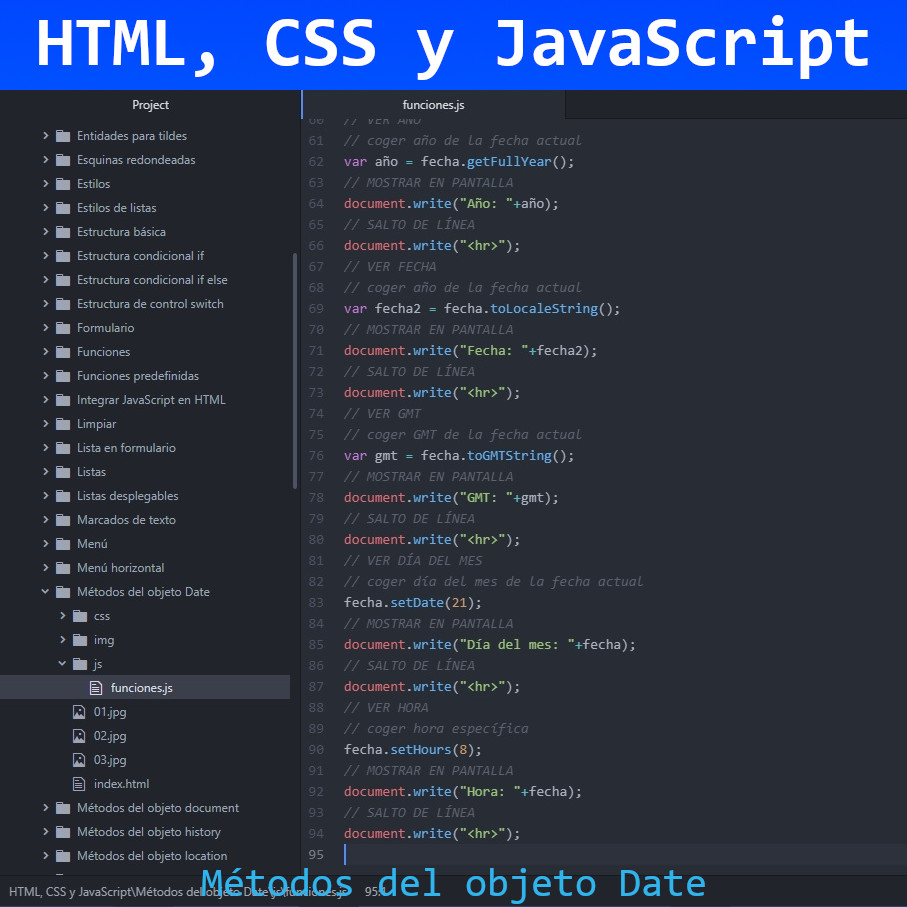
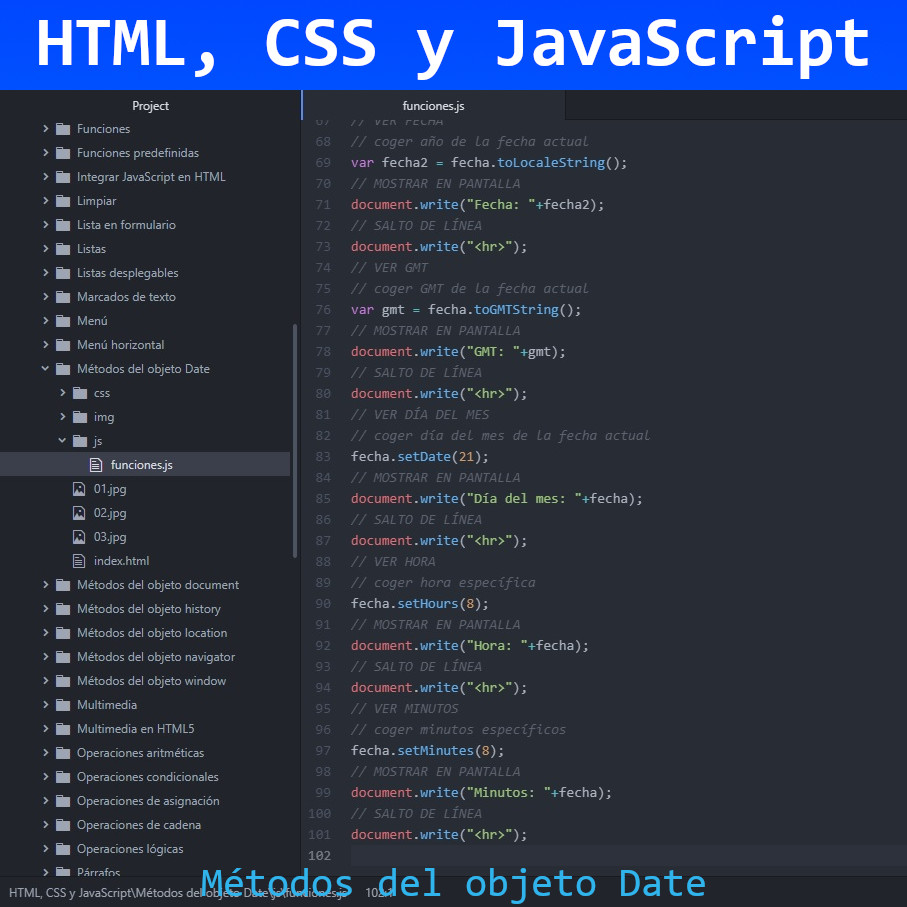
Métodos del objeto Date
Métodos del objeto Date en JavaScript

diff --git a/HTML, CSS y JavaScript/Métodos del objeto Date/js/funciones.js b/HTML, CSS y JavaScript/Métodos del objeto Date/js/funciones.js
@@ -92,3 +92,10 @@ fecha.setHours(8);
 document.write("Hora: "+fecha);
 // SALTO DE LÍNEA
 document.write("<hr>");
+// VER MINUTOS
+// coger minutos específicos
+fecha.setMinutes(8);
+// MOSTRAR EN PANTALLA
+document.write("Minutos: "+fecha);
+// SALTO DE LÍNEA
+document.write("<hr>");
